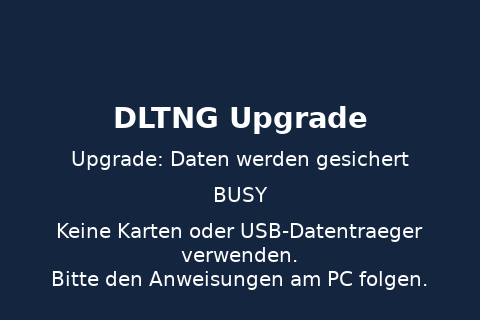
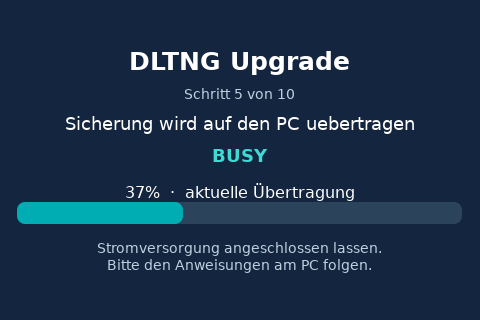
Document fullscreen progress overlay and original-device display test

diff --git a/docs/de/pilot.md b/docs/de/pilot.md
@@ -4,13 +4,13 @@ Eine gesonderte Testausgabe ab Version 0.2.1 kann ein signiertes Laborimage übe
 
 ## Korrekturen für den aktuellen Test
 
-**Testausgabe 0.2.7 verwenden.** Sie zeigt ab der Geräteprüfung den Upgrade-Schritt und **BUSY** auf dem DLTNG an. Smartcard, USB, RFID und Übertragung bleiben bis zur geprüften Freigabe gesperrt. Die Korrekturen aus 0.2.6 bleiben enthalten: wiederaufnehmbare Windows-Systemhelfer, **Zurück** zum Betrachten erledigter Schritte, kompakte Ansicht und **Diagnose** mit Fehlercode-Erklärung, bereinigtem ZIP und bestätigtem Versand an UPS.
+**Testausgabe 0.2.8 verwenden.** Sie zeigt ab der Geräteprüfung den Upgrade-Schritt und **BUSY** auf dem DLTNG an. Smartcard, USB, RFID und Übertragung bleiben bis zur geprüften Freigabe gesperrt. Die Korrekturen aus 0.2.6 bleiben enthalten: wiederaufnehmbare Windows-Systemhelfer, **Zurück** zum Betrachten erledigter Schritte, kompakte Ansicht und **Diagnose** mit Fehlercode-Erklärung, bereinigtem ZIP und bestätigtem Versand an UPS.
 
-**Bestehenden Vorgang fortsetzen:** Lassen Sie das Gerät angeschlossen, solange ein Systemhelfer arbeitet. Nach dessen Abschluss die alte EXE schließen, 0.2.7 starten und **„Vorgang öffnen“** wählen. Die aktuelle `session.json` verwenden. Bei mehreren Vorgängen helfen Datum, Fortschritt und Ordner bei der Auswahl; der neueste steht oben. Bereits geprüfter Download und Sicherung bleiben erhalten. Ein erfolgreicher Schreibnachweis führt direkt zur Datenwiederherstellung. Falls das Altgerät nach der Sicherung wieder normal betrieben wurde, ist dagegen eine neue Sicherung erforderlich.
+**Bestehenden Vorgang fortsetzen:** Lassen Sie das Gerät angeschlossen, solange ein Systemhelfer arbeitet. Nach dessen Abschluss die alte EXE schließen, 0.2.8 starten und **„Vorgang öffnen“** wählen. Die aktuelle `session.json` verwenden. Bei mehreren Vorgängen helfen Datum, Fortschritt und Ordner bei der Auswahl; der neueste steht oben. Bereits geprüfter Download und Sicherung bleiben erhalten. Ein erfolgreicher Schreibnachweis führt direkt zur Datenwiederherstellung. Falls das Altgerät nach der Sicherung wieder normal betrieben wurde, ist dagegen eine neue Sicherung erforderlich.
 
-**Nach erneuter Installation des Originalimages 1.0 von vorne beginnen:** Das DLTNG normal starten und seine Bereitschaft abwarten. Testausgabe 0.2.7 starten und einen neuen Vorgang mit neuer Sicherung anlegen; keine alte `session.json` öffnen. Einen neuen dauerhaften Arbeitsordner verwenden und frühere Sicherungsordner aufbewahren. Karten und USB-Datenträger vor **„Gerät prüfen“** entfernen. Die App lädt das passende signierte Pilotimage über UPS. Der Normalablauf benötigt keine manuelle Image-Auswahl.
+**Nach erneuter Installation des Originalimages 1.0 von vorne beginnen:** Das DLTNG normal starten und seine Bereitschaft abwarten. Testausgabe 0.2.8 starten und einen neuen Vorgang mit neuer Sicherung anlegen; keine alte `session.json` öffnen. Einen neuen dauerhaften Arbeitsordner verwenden und frühere Sicherungsordner aufbewahren. Karten und USB-Datenträger vor **„Gerät prüfen“** entfernen. Die App lädt das passende signierte Pilotimage über UPS. Der Normalablauf benötigt keine manuelle Image-Auswahl.
 
-Die neue Image-Ausgabe `10.0.0-rc.4-upgrade.1-clean-update` benötigt mindestens Testausgabe 0.2.7. Ihre Wartungsanzeige startet nach der Prüfung der Sitzung beim ersten normalen Start. Ohne Strom und im USB-Programmiermodus erfolgt die Anleitung auf dem PC. Die Anzeige- und Ablaufprüfung am echten CM4 steht noch aus.
+Die neue Image-Ausgabe `10.0.0-rc.4-upgrade.1-clean-update` benötigt mindestens Testausgabe 0.2.7. Ihre Wartungsanzeige startet nach der Prüfung der Sitzung beim ersten normalen Start. Ohne Strom und im USB-Programmiermodus erfolgt die Anleitung auf dem PC. Die Original-1.0-Anzeige wurde am CM4 geprüft; die vollständige Migration bleibt offen. Ab App 0.2.8 deckt der eigenständige Bildschirm den Desktop ab und zeigt messbaren Fortschritt. Das vorhandene UPS-Image bleibt unverändert; der neue Helfer wird nach Geräte-/Sitzungsprüfung übernommen.
 
 Im vorhandenen LAN genügt die normale Geräteverbindung. Die direkte Serviceverbindung ist für ein eigenes Ethernet-Kabel zwischen PC und DLTNG vorgesehen. Administratorrechte fordert die App bei der jeweiligen Windows-Aktion an.
 

diff --git a/docs/en/pilot.md b/docs/en/pilot.md
@@ -4,13 +4,13 @@ A separately configured test build, version 0.2.1 or later, can retrieve a signe
 
 ## Fixes for the current test
 
-**Use test build 0.2.7.** From the device check onwards, DLTNG displays the upgrade stage and **BUSY**. Smartcard, USB, RFID and uploads remain inhibited until verified release. The fixes from 0.2.6 remain included: resumable Windows helpers, **Back** to review completed steps, compact layout and **Diagnostics** with error-code explanations, a redacted ZIP and confirmed upload to UPS.
+**Use test build 0.2.8.** From the device check onwards, DLTNG displays the upgrade stage and **BUSY**. Smartcard, USB, RFID and uploads remain inhibited until verified release. The fixes from 0.2.6 remain included: resumable Windows helpers, **Back** to review completed steps, compact layout and **Diagnostics** with error-code explanations, a redacted ZIP and confirmed upload to UPS.
 
-**Resume an existing session:** Keep the device connected while a helper is working. After it finishes, close the old EXE, start 0.2.7 and choose **“Open session”** with the current `session.json`. If multiple sessions exist, choose using their date, progress and folder; newest is listed first. Verified downloads and backups are retained. A successful saved write result leads directly to data restoration. If the original device resumed normal operation after backup, a fresh backup is required.
+**Resume an existing session:** Keep the device connected while a helper is working. After it finishes, close the old EXE, start 0.2.8 and choose **“Open session”** with the current `session.json`. If multiple sessions exist, choose using their date, progress and folder; newest is listed first. Verified downloads and backups are retained. A successful saved write result leads directly to data restoration. If the original device resumed normal operation after backup, a fresh backup is required.
 
-**Start over after reinstalling the original 1.0 image:** Boot DLTNG normally and wait until it is ready. Launch test build 0.2.7 and create a new session with a fresh backup; do not open an old `session.json`. Select a new persistent working folder and retain previous backup folders. Remove cards and USB storage before **“Check device”**. The app downloads the matching signed pilot image from UPS; the normal procedure does not require manual image selection.
+**Start over after reinstalling the original 1.0 image:** Boot DLTNG normally and wait until it is ready. Launch test build 0.2.8 and create a new session with a fresh backup; do not open an old `session.json`. Select a new persistent working folder and retain previous backup folders. Remove cards and USB storage before **“Check device”**. The app downloads the matching signed pilot image from UPS; the normal procedure does not require manual image selection.
 
-The new `10.0.0-rc.4-upgrade.1-clean-update` image requires test build 0.2.7 or later. Its maintenance display starts after session validation during the first normal boot. While powered off or in USB programming mode, follow the PC wizard. Physical CM4 display and upgrade acceptance remain pending.
+The new `10.0.0-rc.4-upgrade.1-clean-update` image requires test build 0.2.7 or later. Its maintenance display starts after session validation during the first normal boot. While powered off or in USB programming mode, follow the PC wizard. The original-1.0 display was tested on CM4; full migration remains pending. Since app 0.2.8 the independent overlay covers the desktop and shows measured progress. Existing UPS image bytes remain unchanged; the helper is refreshed after device/session verification.
 
 On an existing LAN, use the normal device connection. The direct service connection is intended for a dedicated Ethernet cable between the PC and DLTNG. The app requests administrator rights for the relevant Windows operation.
 

diff --git a/docs/de/guide.md b/docs/de/guide.md
@@ -2,7 +2,7 @@
 
 Diese Anleitung beschreibt den vorgesehenen Ablauf. In der aktuellen Entwicklungsausgabe lässt er sich vollständig im **Demomodus** ausprobieren. Ein echter Flashvorgang setzt ein ausdrücklich freigegebenes Gerät und ein passendes signiertes Image voraus.
 
-Diese Anleitung berücksichtigt die **Testausgabe 0.2.7**, einschließlich der neuen Bestätigungsanzeige, Anschlussbilder und Explorer-Unterdrückung. Der öffentliche Standarddownload bleibt 0.2.0; die Testausgabe wird für das freigegebene Laborgerät bereitgestellt.
+Diese Anleitung berücksichtigt die **Testausgabe 0.2.8**, einschließlich der neuen Bestätigungsanzeige, Anschlussbilder und Explorer-Unterdrückung. Der öffentliche Standarddownload bleibt 0.2.0; die Testausgabe wird für das freigegebene Laborgerät bereitgestellt.
 
 ## Vor dem Start
 
@@ -114,4 +114,10 @@ Ab **Gerät prüfen** zeigt das Gerät **BUSY** und den aktuellen Schritt. Vorhe
 
 Smartcard, USB, RFID, Upload und der normale Idle-Dienst bleiben gesperrt. Ein eigener Anzeigedienst liest die siebenzeilige `display.log`, ohne Geschäftsdaten zu verarbeiten. Ein Verbindungsverlust gibt die Verarbeitung nicht frei. Am Quellgerät können Sie **Altgerät wieder freigeben und neu sichern** wählen; am Zielgerät ist die vollständige Wiederherstellung mit Abschlussprüfung erforderlich.
 
-Während Ausschalten und USB-Programmiermodus läuft kein Betriebssystem für die Geräteanzeige. In dieser Zeit gelten die Hinweise des PC-Assistenten. Das neue Pilotimage zeigt BUSY ab dem normalen Wartungsstart; bei älteren Images beginnt die Anzeige nach der geprüften SSH-Wiederverbindung. Die Abbildung wurde bei 480 × 320 Pixeln geprüft; der reale Display-/Boot-Test steht noch aus.
+Während Ausschalten und USB-Programmiermodus läuft kein Betriebssystem für die Geräteanzeige. In dieser Zeit gelten die Hinweise des PC-Assistenten. Das neue Pilotimage zeigt BUSY ab dem normalen Wartungsstart; bei älteren Images beginnt die Anzeige nach der geprüften SSH-Wiederverbindung. Ab 0.2.8 wird das Vollbild auf dem Originalsystem vor dem Beenden von Chrome geöffnet. Es verdeckt auch die schwebenden Tastatursymbole. Der Assistent prüft, ob die Anzeige tatsächlich sichtbar ist. Dateizähler und Prozentwerte zeigen den Fortschritt des aktuellen Teilschritts; bei Datenbanksicherung und anderen Aufgaben ohne bekannte Gesamtmenge bewegt sich ein Aktivitätsbalken. Nach der Sicherung steht dort „Am PC fortfahren“.
+
+Die Abbildung ist ein Darstellungstest mit 37 % Übertragungsfortschritt. Deutsch und Englisch wurden bei 480 × 320 und 1024 × 600 geprüft. Der Wechsel vom Browser zur Vollbildanzeige wurde auch auf dem Original-1.0-Testgerät bei gesperrten Lesediensten geprüft; anschließend wurde der Normalbetrieb wiederhergestellt. Die vollständige Geräte-Migration bleibt offen.
+
+![Anzeige auf dem Original-1.0-Testgerät](assets/display-cm4.png)
+
+*Gerätetest während der Vorbereitung, 1024 × 600 Pixel.*

diff --git a/docs/en/guide.md b/docs/en/guide.md
@@ -2,7 +2,7 @@
 
 This guide describes the intended workflow. You can try every step in **demo mode** in the current development edition. Actual flashing requires an explicitly approved device and a matching signed image.
 
-This guide covers **test build 0.2.7**, including the new confirmation display, connector illustrations and Explorer suppression. The public standard download remains 0.2.0; the test build is supplied for the approved lab device.
+This guide covers **test build 0.2.8**, including the new confirmation display, connector illustrations and Explorer suppression. The public standard download remains 0.2.0; the test build is supplied for the approved lab device.
 
 ## Before you start
 
@@ -114,4 +114,6 @@ From **Check device**, the device shows **BUSY** and the current stage. Remove c
 
 Smartcard, USB, RFID, upload and ordinary idle remain inhibited. A dedicated display service reads the seven-line `display.log` without processing business data. Losing the PC connection does not release processing. On the source, use **Release the old device and back up again**; the target requires restoration and final checks before release.
 
-No operating system is running for the display while powered off or in USB programming mode. Follow the PC wizard then. The new pilot image shows BUSY from normal maintenance startup; older images show it after verified SSH reconnection. This view was tested at 480 × 320 pixels; physical display/boot acceptance remains pending.
+No operating system is running for the display while powered off or in USB programming mode. Follow the PC wizard then. The new pilot image shows BUSY from normal maintenance startup; older images show it after verified SSH reconnection. Since 0.2.8 the original system opens the fullscreen overlay before Chrome stops. It also covers floating keyboard icons. The wizard checks that the display is actually visible. File counts and percentages refer to the current operation; database backup and tasks without a known total use an activity bar. After backup the screen says “Continue on the PC”.
+
+The illustration is a rendering test at 37% transfer progress. German and English were checked at 480 × 320 and 1024 × 600. The browser-to-overlay transition was also tested on the original-1.0 device while readers were inhibited, followed by restoration of normal operation. Full device migration acceptance remains pending.

diff --git a/docs/de/changelog.md b/docs/de/changelog.md
@@ -1,5 +1,13 @@
 # Programmänderungen
 
+## 0.2.8 – 2026-09-17 · Vollbild und Fortschritt auf dem Gerät
+
+- Eigenständiger Upgrade-Bildschirm über dem gesamten Desktop, einschließlich schwebender Tastatursymbole. Auf dem Originalsystem wird die Anzeige vor dem Beenden von Chrome geöffnet.
+- Sichtbaren Vollbildstart prüfen; bei fehlender Anzeige die Aktion mit konkretem Hinweis anhalten und die Geschäftsdienste gesperrt lassen.
+- Schrittanzeige, Dateizähler und tatsächlich übertragene Bytes; Aktivitätsanzeige für Vorgänge ohne messbare Gesamtmenge. Fortschrittsmeldungen sind sitzungsgebunden und begrenzt, Übertragungsdaten bleiben bei Ausfall einer Meldung erhalten.
+- Deutscher/englischer Bildschirm bei 480 × 320 und 1024 × 600 geprüft. Wechsel bei angehaltenem Chrome und gesperrten Lesediensten auf dem Original-1.0-CM4 geprüft, anschließend Normalbetrieb wiederhergestellt. Vollständiger Flash-/Wiederherstellungstest bleibt offen.
+- Vorhandenes UPS-Image bleibt unverändert; der Assistent aktualisiert den Gerätehelfer nach Identitäts-/Sitzungsprüfung.
+
 ## 0.2.7 – 2026-09-17 · Wartungsanzeige
 
 - Display mit BUSY und deutschen/englischen Phasentexten ab Geräteprüfung.

diff --git a/docs/en/changelog.md b/docs/en/changelog.md
@@ -1,5 +1,13 @@
 # Application changelog
 
+## 0.2.8 – 2026-09-17 · Fullscreen device display and progress
+
+- Dedicated upgrade overlay covers the entire desktop, including floating keyboard icons. On the original system it opens before Chrome stops.
+- Verify a visible fullscreen window; stop with a concrete message if it cannot appear, while business services remain inhibited.
+- Stage display, file counts and actual transferred bytes; activity indication for operations without a measurable total. Progress messages are session-bound and throttled; a lost message does not invalidate transferred data.
+- German/English rendering checked at 480 × 320 and 1024 × 600. Handoff with Chrome and reader services stopped tested on the original-1.0 CM4, followed by normal-operation restoration. Full flash/restoration acceptance remains pending.
+- Existing UPS image bytes are unchanged; the wizard refreshes the device helper after identity/session verification.
+
 ## 0.2.7 – 2026-09-17 · Upgrade display
 
 - BUSY display with German/English stage messages from device check.

diff --git a/docs/de/image-changelog.md b/docs/de/image-changelog.md
@@ -1,5 +1,9 @@
 # DLTNG-Image: Changelog
 
+## Upgrade-Helfer 0.2.8 – 2026-09-17
+
+Vollbildanzeige mit Fortschritt und bestätigter Sichtbarkeit. Auf dem Original-1.0-Gerät geprüft. Bestehende Images und UPS-Freigaben bleiben unverändert; die App stellt den Helfer nach Geräte-/Sitzungsprüfung bereit. Künftige Image-Bauten übernehmen ihn.
+
 Diese Historie umfasst frühere Migrationsimages und das bereinigte Profil für DLTNG Upgrade. Historische Angaben beziehen sich auf das jeweilige Image. Das Windows-Tool hat ein [eigenes Changelog](changelog.md).
 
 ## 10.0.0-rc.4-upgrade.1-clean-update – 2026-09-17

diff --git a/docs/en/image-changelog.md b/docs/en/image-changelog.md
@@ -1,5 +1,9 @@
 # DLTNG image changelog
 
+## Upgrade helper 0.2.8 – 2026-09-17
+
+Fullscreen overlay with progress and verified visibility. Tested on the original-1.0 device. Published images and UPS approvals remain unchanged; the app refreshes the helper after device/session verification. Future image builds will include it.
+
 This history includes earlier migration images as well as the clean profile used by DLTNG Upgrade. Statements in historical entries refer to the respective image. The Windows application has its [own changelog](changelog.md).
 
 ## 10.0.0-rc.4-upgrade.1-clean-update – 2026-09-17
